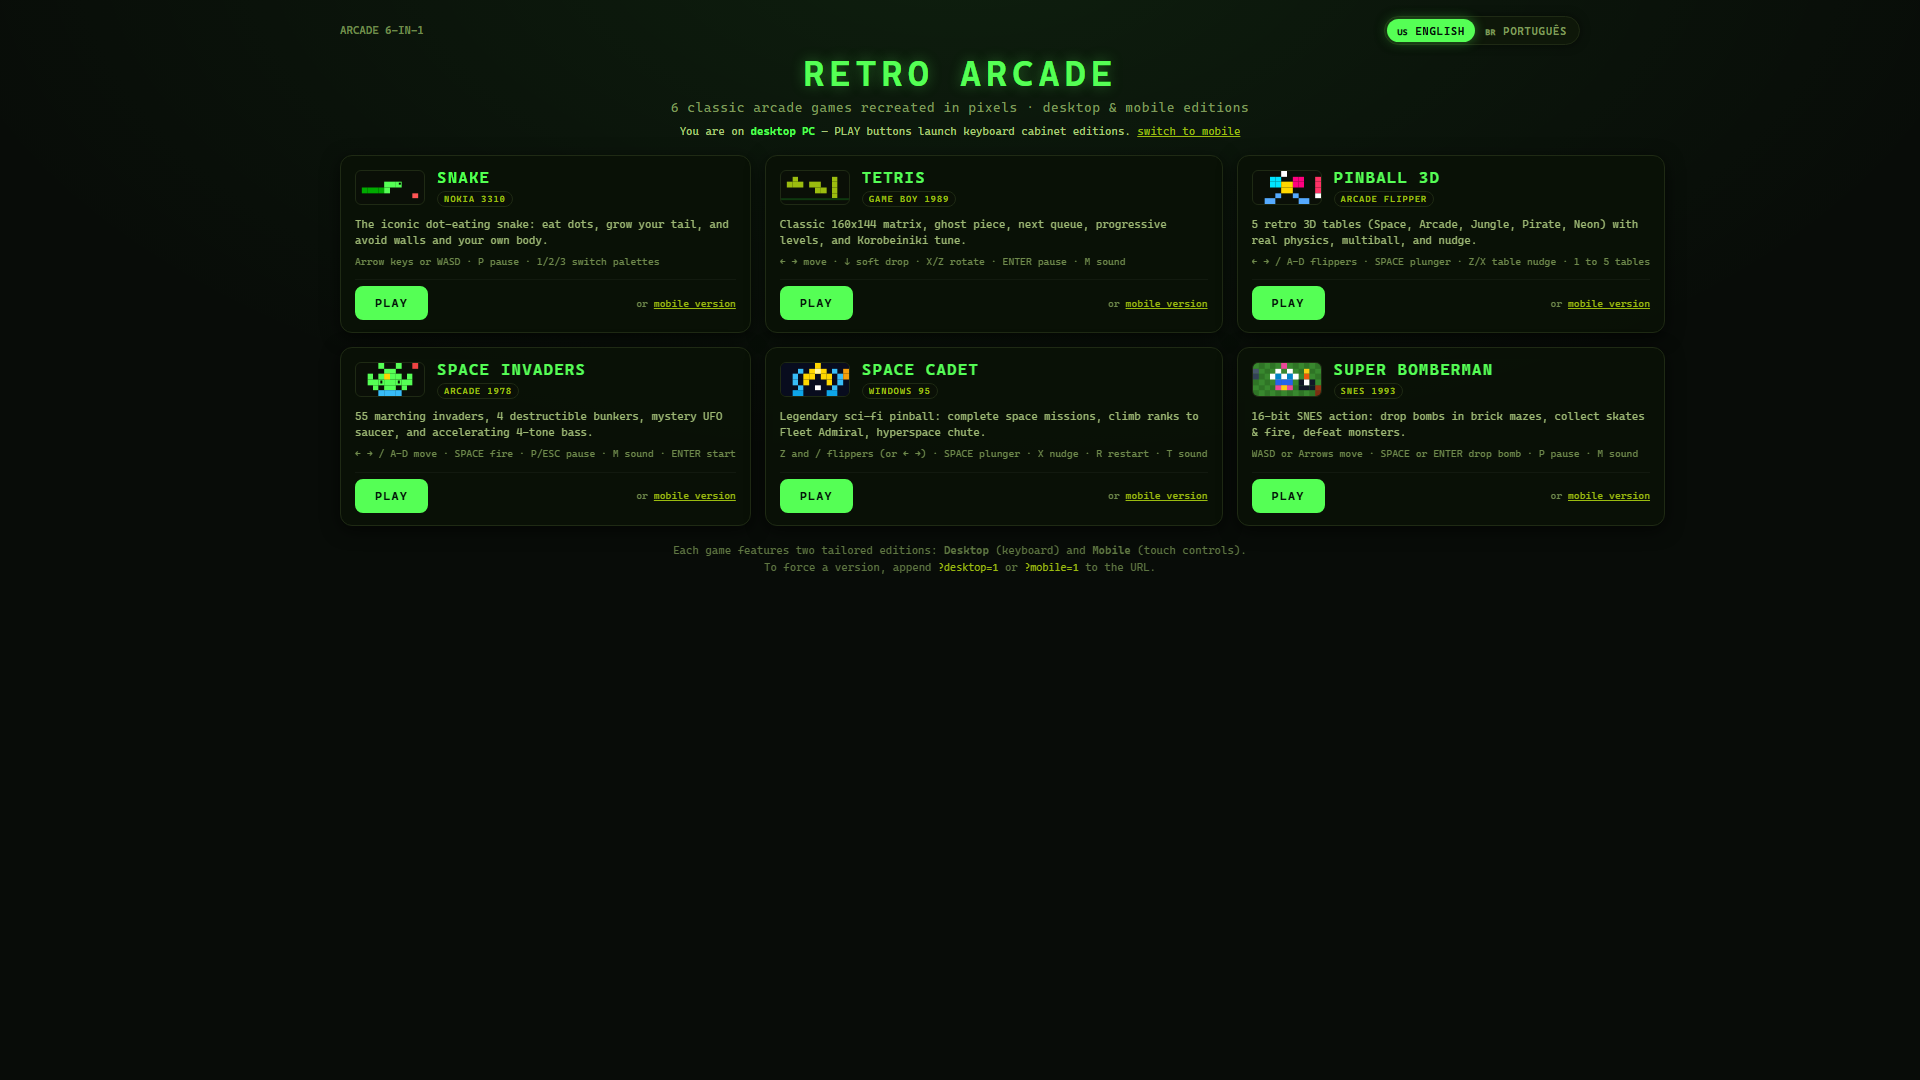
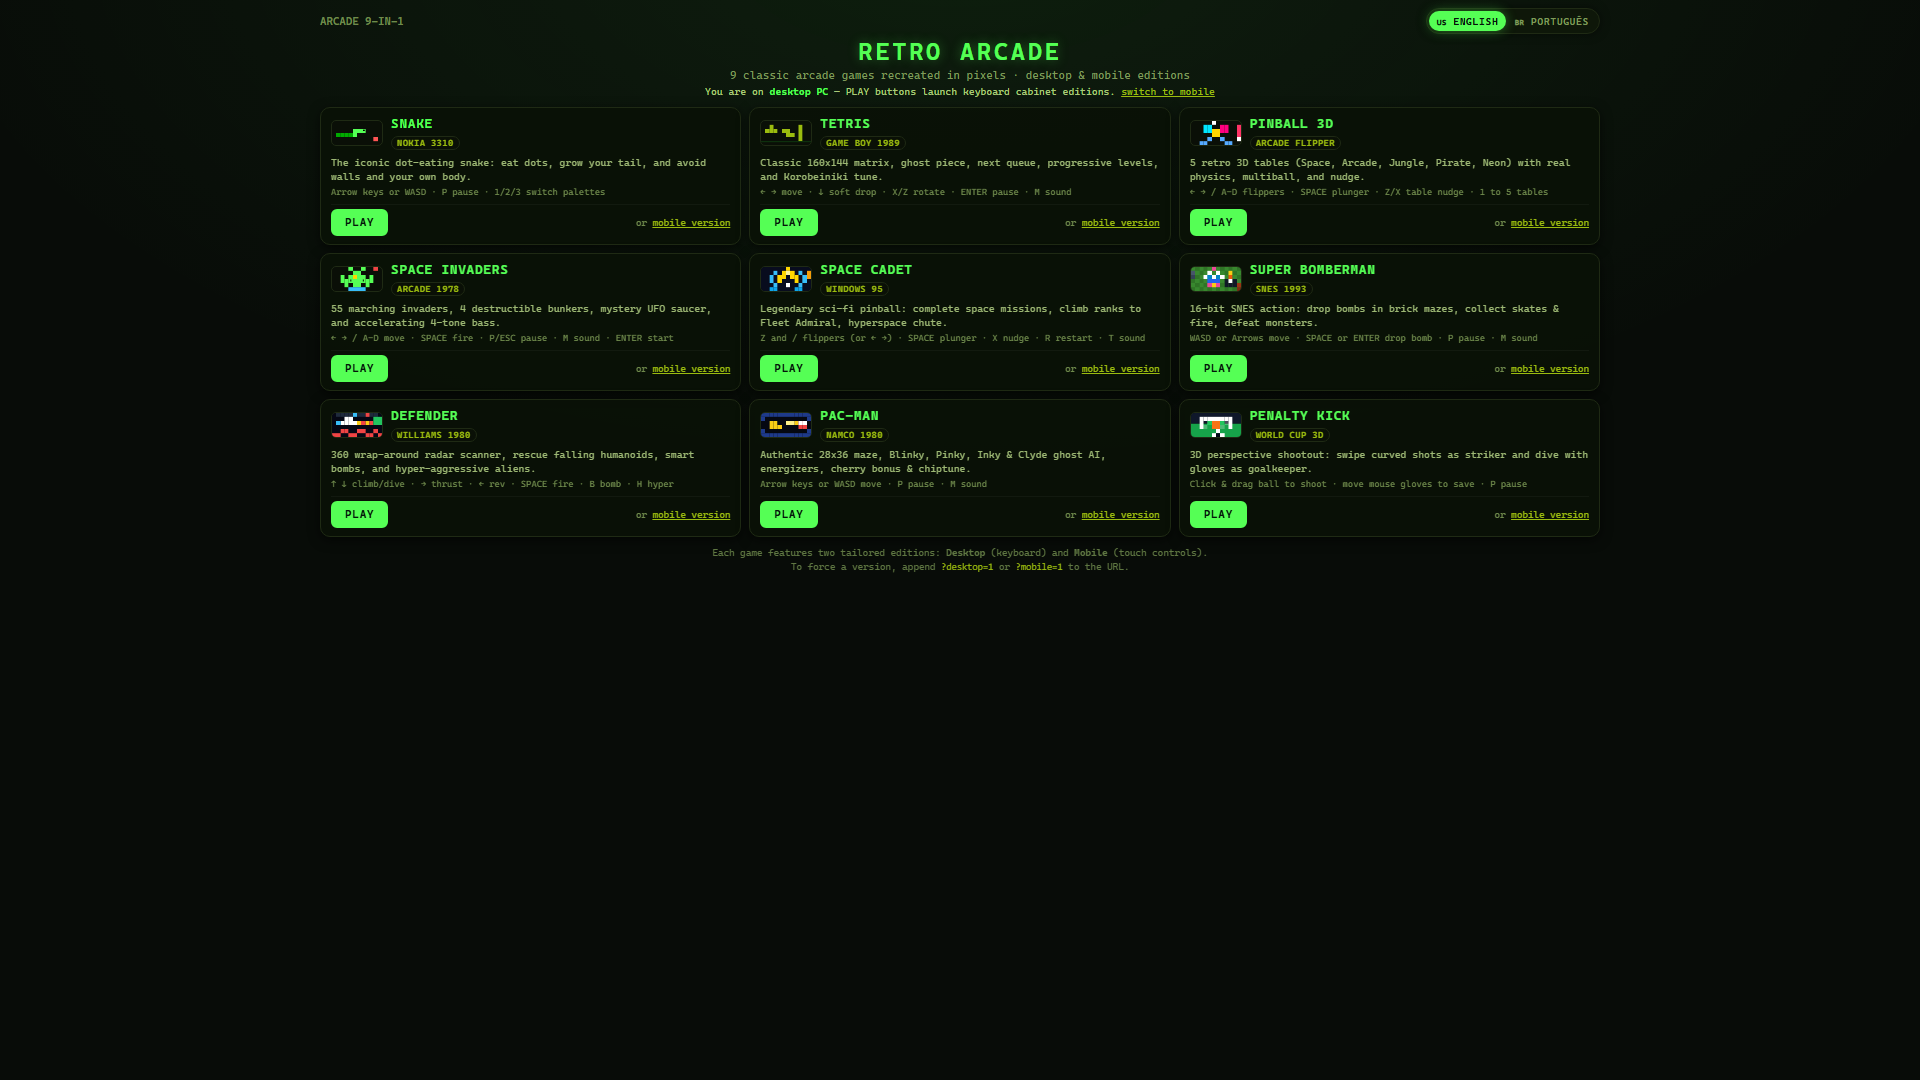
docs: update screenshots and README for all 9 games in v2.0

diff --git a/README.md b/README.md
@@ -139,6 +139,10 @@ Designed to fit **all 9 games simultaneously on a standard Full HD monitor (1920
 * **Rescue System**: Shoot abducting Landers, catch falling humanoids in mid-air, and set them down safely for 1,000 bonus points.
 * **Emergency Systems**: Screen-clearing Smart Bombs (EMP) and Hyperspace jumps.
 
+| Desktop Cabinet | Mobile Fullscreen |
+| :---: | :---: |
+| ![Defender Desktop](tela-defender-desktop.png) | ![Defender Mobile](tela-defender-mobile.png) |
+
 ---
 
 ### 8. Pac-Man (Namco 1980)
@@ -153,6 +157,10 @@ Designed to fit **all 9 games simultaneously on a standard Full HD monitor (1920
   * Frightened mode with flashing blue/white ghosts and combo score multipliers (200 ➡ 400 ➡ 800 ➡ 1,600 pts).
   * Cherry & Fruit bonus pickups.
   * Chiptune audio synthesizer generating waka-waka, siren hums, fruit eating, and classic death jingles.
+
+| Desktop Cabinet | Mobile Fullscreen |
+| :---: | :---: |
+| ![Pac-Man Desktop](tela-pacman-desktop.png) | ![Pac-Man Mobile](tela-pacman-mobile.png) |
 
 ---
 
@@ -171,6 +179,10 @@ Designed to fit **all 9 games simultaneously on a standard Full HD monitor (1920
 * **Tournament Shootout Rules**:
   * Best-of-5 tournament shootout with sudden-death tiebreakers.
   * Authentic audio FX: Ball kick thuds, net rustle, glove saves, post/crossbar clangs, whistle blasts, and crowd celebrations.
+
+| Desktop Cabinet | Mobile Fullscreen |
+| :---: | :---: |
+| ![Penalty Kick Desktop](tela-penalty-desktop.png) | ![Penalty Kick Mobile](tela-penalty-mobile.png) |
 
 ---
 
